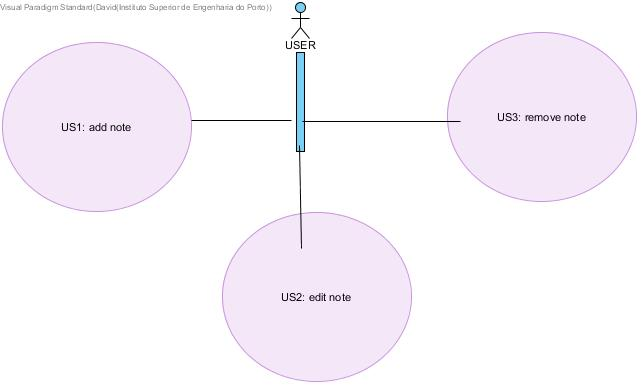
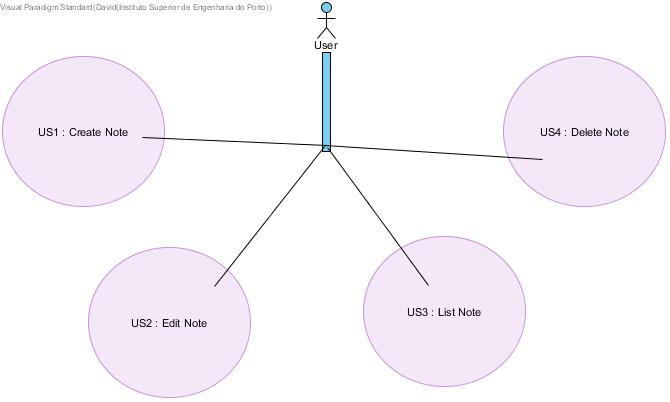
Readme Changes

diff --git a/docs/red/s1161109/sp1/README.md b/docs/red/s1161109/sp1/README.md
@@ -15,7 +15,7 @@ Core07.1 - User should create notes.
 
 **Proposal**:
 
-  - **US1** : User can view, edit and delete notes.
+  User can view, edit and delete notes.
 
 
 # 3. Analysis
@@ -102,7 +102,13 @@ The main idea for the "workflow" of this feature increment.
 
 # 4. Design
 
-*In this section you should present the design solution for the requirements of this sprint.*
+		There Will be 2 domain classes: Note and NoteVersion
+		
+		Note will have a User and an unique ID
+		
+		NoteVersion will have the text,title and date.
+		
+		In that way is Possible to Edit and acess various versions of the same note.
 
 
 
@@ -111,16 +117,6 @@ The main idea for the "workflow" of this feature increment.
 
 ## 4.2. Requirements Realization
 
-*In this section you should present the design realization of the requirements.*
-
-Following the guidelines for JPA from EAPLI we envision a scenario like the following for realizing the use cases for this feature increment.
-
-**For US1**
-
-![SD US1](design1.png)
-
-
-**For US2**
 
 
 
